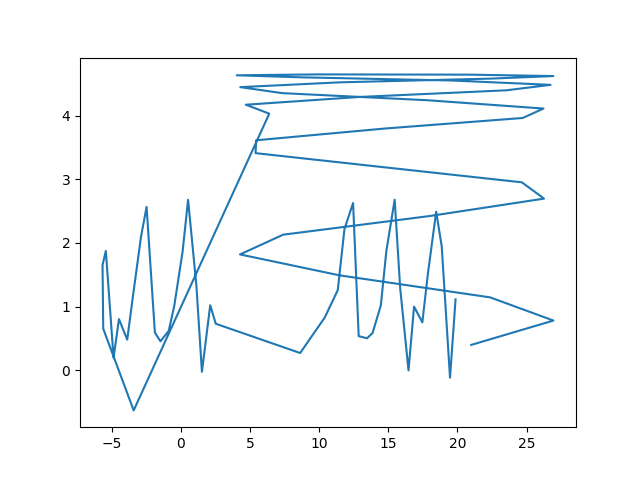
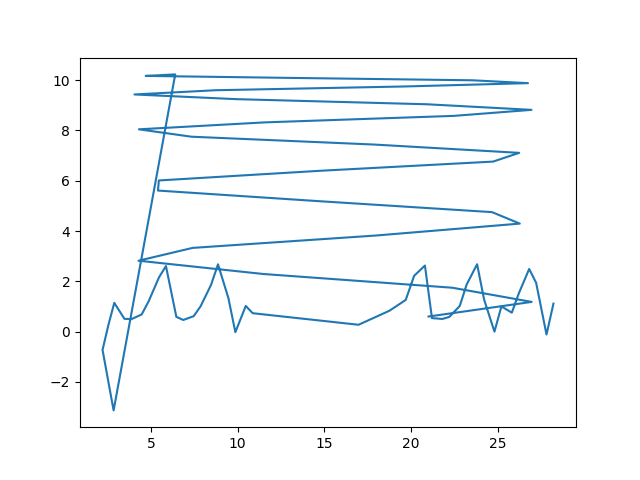
Version 1.0.0 relase

diff --git a/main.py b/main.py
@@ -101,26 +101,26 @@ axs[1,0].plot(midle_x, midle_y, dataset_x, dataset_y, label="Trajectoires")
 axs[1,0].set_ylabel("position sur a l'ordonnee")
 axs[1,0].set_xlabel("position sur a l'abscisse")
 axs[1,0].set_title("Trajectoires")
-axs[1,0].legend(['Solution au demarrage','Jeux de donnees'])
+axs[1,0].legend(['Solution a mi-parcours','Jeux de donnees'])
 axs[1,1].bar(itab, midle_e, bar_width, label="Energie")
 axs[1,1].bar(itab, dataset_e, bar_width, label="Energie")
 axs[1,1].set_ylabel("valeur de e")
 axs[1,1].set_xlabel("temps")
 axs[1,1].set_title("Variable e")
-axs[1,1].legend(['Solution au demarrage','Jeux de donnees'])
+axs[1,1].legend(['Solution a mi-parcours','Jeux de donnees'])
 
 
 axs[2,0].plot(solution_x, solution_y, dataset_x, dataset_y, label="Trajectoires")
 axs[2,0].set_ylabel("position sur a l'ordonnee")
 axs[2,0].set_xlabel("position sur a l'abscisse")
 axs[2,0].set_title("Trajectoires")
-axs[2,0].legend(['Solution au demarrage','Jeux de donnees'])
+axs[2,0].legend(['Solution trouvee','Jeux de donnees'])
 axs[2,1].bar(itab, solution_e, bar_width, label="Energie")
 axs[2,1].bar(itab, dataset_e, bar_width, label="Energie")
 axs[2,1].set_ylabel("valeur de E")
 axs[2,1].set_xlabel("temps")
 axs[2,1].set_title("Variable e")
-axs[2,1].legend(['Solution au demarrage','Jeux de donnees'])
+axs[2,1].legend(['Solution trouvee','Jeux de donnees'])
 
 fig.set_size_inches((8.5, 11), forward=False)
 fig.tight_layout()

diff --git a/article_algo.py b/article_algo.py
@@ -39,7 +39,7 @@ class article_algo:
     def defineAlgorithm(self):
         self.addNode(0,"x=10")
         self.addNode(1,"y=0")
-        self.addNode(2,"e=200")
+        self.addNode(2,"e=300")
 
         self.addNode(3,"(t>=0 and t<=30)")
         #self.addNode(4,"x=x+h2+e+t")
